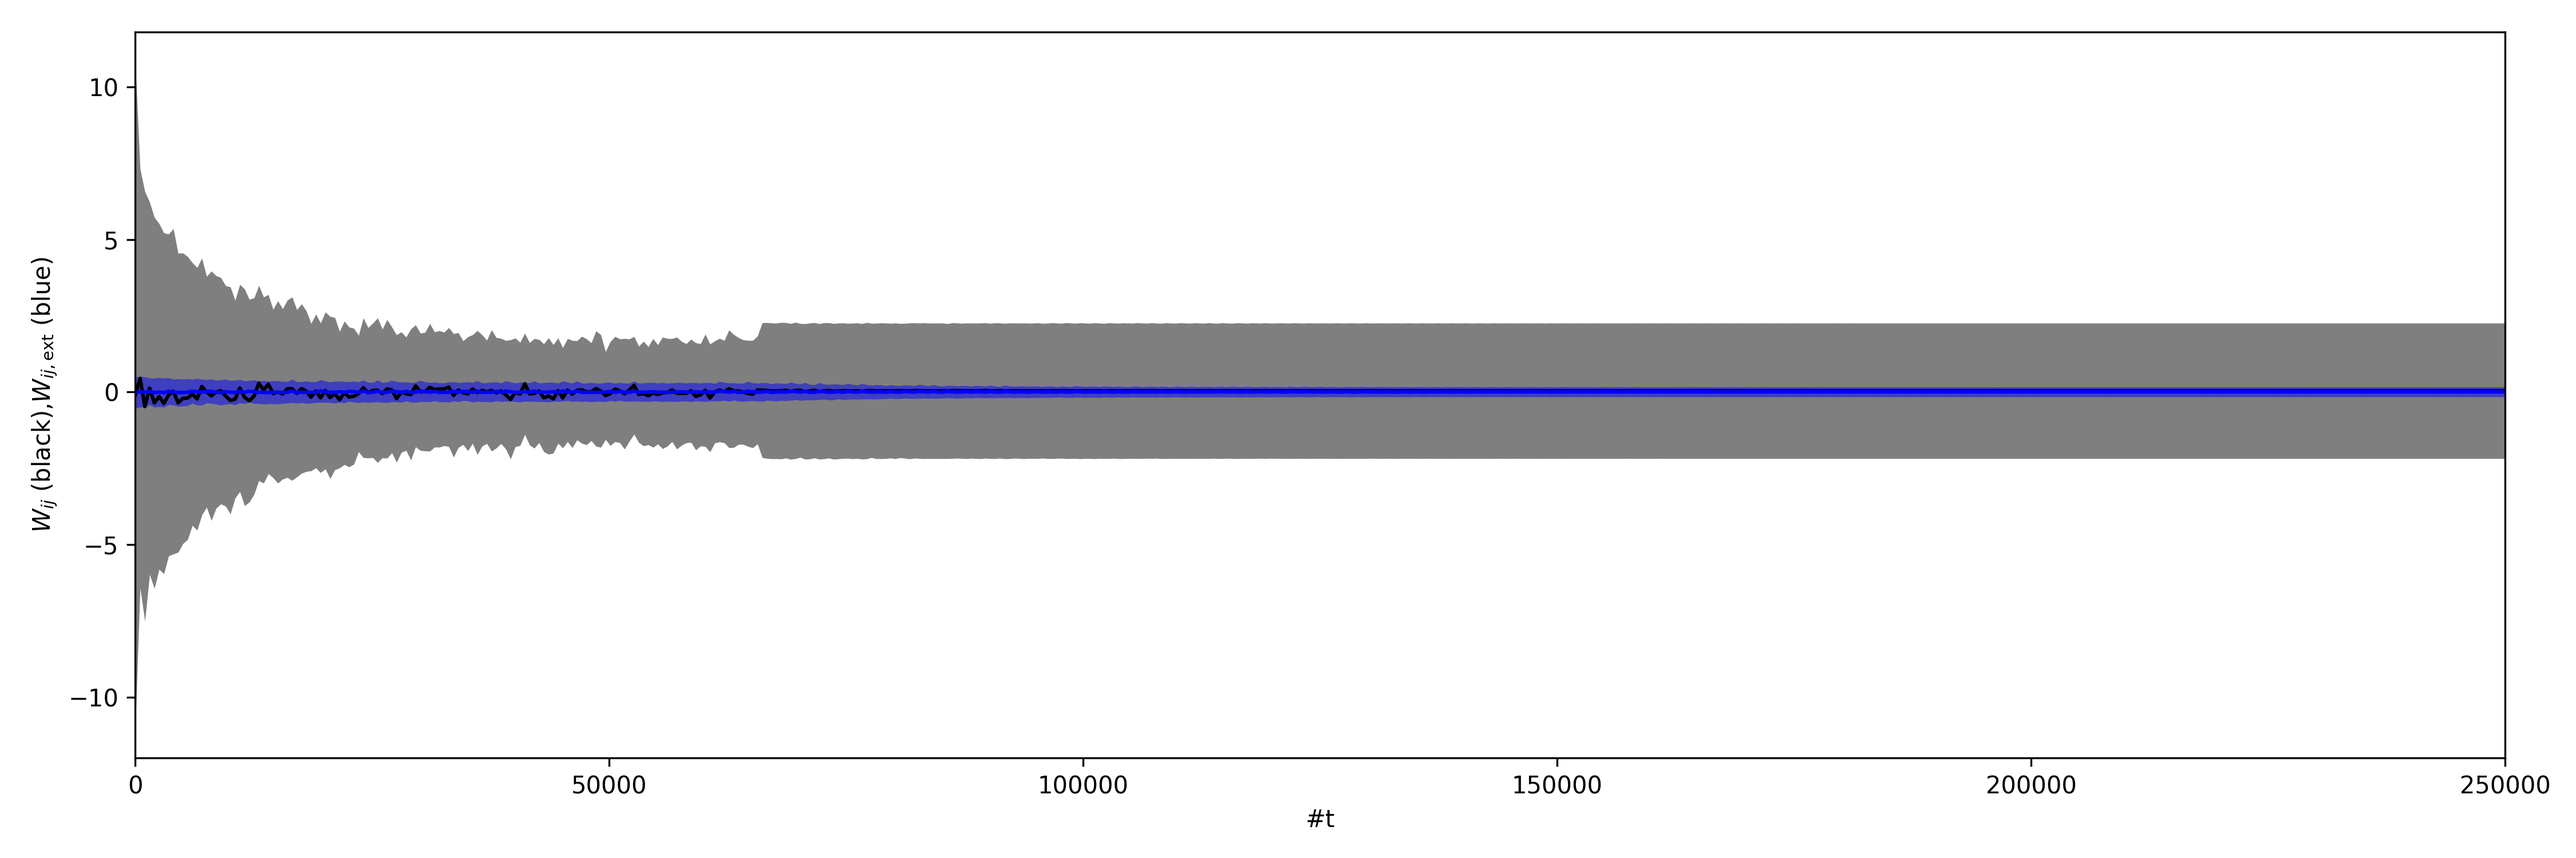
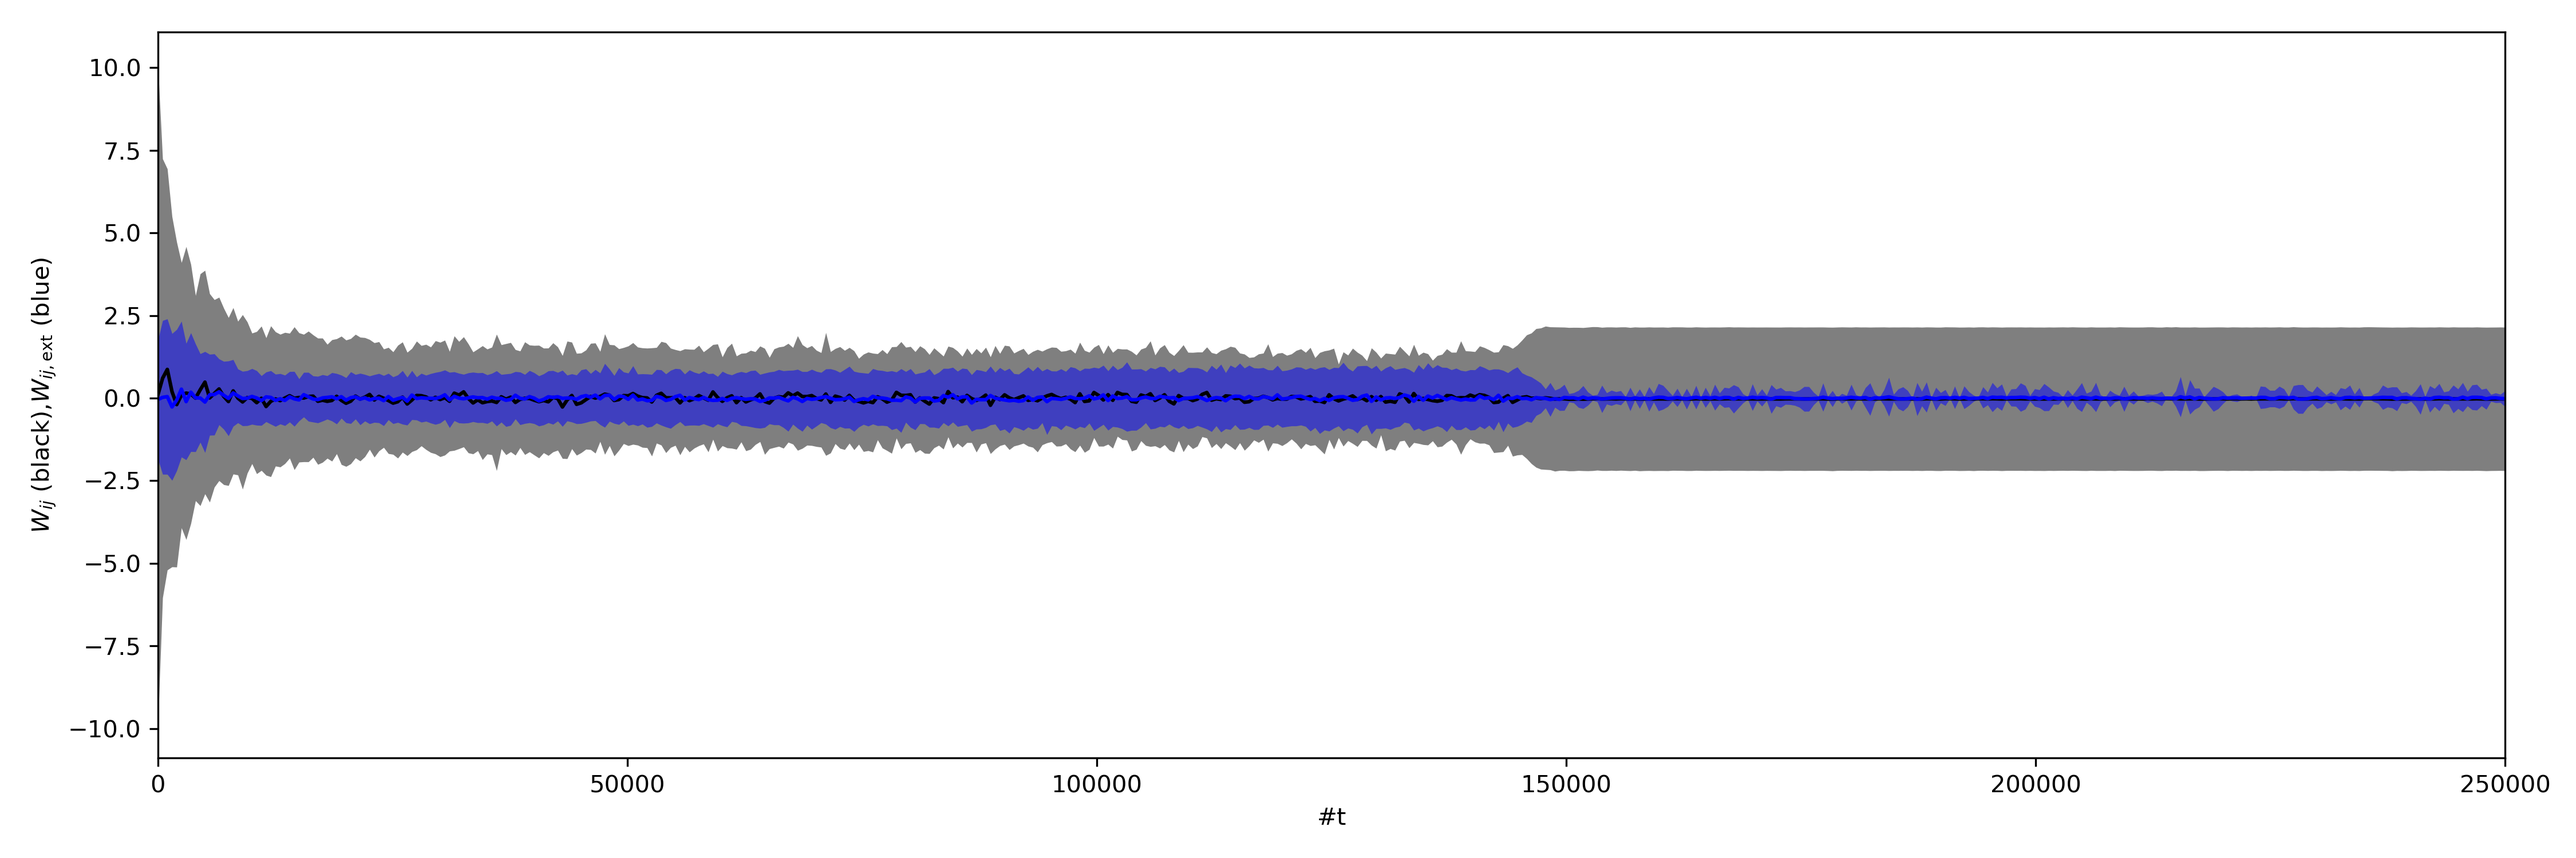
.

diff --git a/code/rnn_prox_dist_non_bin/cpp_code/corr_modulation_test.cpp b/code/rnn_prox_dist_non_bin/cpp_code/corr_modulation_test.cpp
@@ -1,0 +1,169 @@
+#include <iostream>
+#include <cmath>
+#include <fstream>
+#include <random>
+#include <ctime>
+#include "./parameters_corr_modulation.hpp"
+
+using namespace std;
+using namespace parameters;
+
+double sigm(double x){
+	return (tanh(x/2.) + 1.)/2.;
+}
+
+double h(double x, double y, double y_mean, double x_0)
+{
+	double phi=(-x+tanh(2.*0.958*x/x_0)*x_0/0.958);
+	return phi*(y-y_mean);
+}
+
+double mu_mod(double x1, double x2){
+	return (x1 - x2)*(x1 - x2);
+}
+
+int id(int x1, int x2, int n_x2){
+	return x1*n_x2 + x2;
+}
+
+int main(){
+
+	time_t timer;
+
+	mt19937 e(time(&timer));
+
+	normal_distribution<> n_dist(0.,1.);
+
+	double w_p [n_p];
+	double w_d [n_d];
+
+	double y_p [n_p];
+	double y_d [n_d];
+	double y_p_mean [n_p];
+	double y_d_mean [n_d];
+	double y_post;
+	double x_p [n_p];
+	double x_d [n_d];
+
+	for(int i=0; i<n_p; i++){
+		w_p[i] = 0.01;
+	}
+	
+	for(int i=0; i<n_d; i++){
+		w_d[i] = 0.01;
+	}
+
+	double * w_p_rec = new double[n_t*n_p];
+	double * w_d_rec = new double[n_t*n_d];
+
+	double * y_p_rec = new double[n_t*n_p];
+	double * y_d_rec = new double[n_t*n_d];
+
+	double * y_p_mean_rec = new double[n_t*n_p];
+	double * y_d_mean_rec = new double[n_t*n_d];
+
+	double * y_post_rec = new double[n_t];
+
+	double alpha, beta; //used for generating correlated input between distal and first proximal input.
+
+	for(int t = 0; t < n_t; t++){
+
+		for(int k = 0; k < n_d; k++){
+			y_d[k] = n_dist(e)*std_d[k];
+			y_d_rec[id(t,k,n_d)] = y_d[k];
+		}
+
+		alpha = 1./(std_d[0]*(1./corr_p_d - 1.) + 1.);
+		beta = std_p[0]/sqrt(std_d[0]*std_d[0]*alpha*alpha + (1.-alpha)*(1.-alpha));
+
+		//y_p[0] = y_d[0];
+		y_p[0] = beta*( y_d[0]*alpha + (1.-alpha)*n_dist(e) );
+		y_p_rec[id(t,0,n_p)] = y_p[0];
+
+		for(int k = 1; k < n_p; k++){
+			y_p[k] = n_dist(e)*std_p[k];
+			y_p_rec[id(t,k,n_p)] = y_p[k];
+		}
+		
+		for(int k = 0; k < n_p; k++){
+			y_p_mean[k] += mu_mean_act*(y_p[k] - y_p_mean[k]);
+			y_p_mean_rec[id(t,k,n_p)] = y_p_mean[k];
+		}
+
+		for(int k = 0; k < n_d; k++){
+			y_d_mean[k] += mu_mean_act*(y_d[k] - y_d_mean[k]);
+			y_d_mean_rec[id(t,k,n_d)] = y_d_mean[k];
+		}
+
+
+	}
+
+	//Write proximal presynaptic activity
+	ofstream datafile_act_prox;
+	datafile_act_prox.open("data_act_prox.csv");
+
+	datafile_act_prox << "y_p" << endl;
+	for(int t = 0; t < n_t; t++)
+	{
+		
+		for(int k = 0; k < (n_p - 1); k++){
+			datafile_act_prox << y_p_rec[id(t,k,n_p)] << ",";
+
+		}
+
+		if(t < (n_t - 1)){
+			datafile_act_prox << y_p_rec[id(t,n_p-1,n_p)] << "\n";	
+		} else{
+			datafile_act_prox << y_p_rec[id(t,n_p-1,n_p)];
+		}
+		
+		datafile_act_prox << flush;
+	}
+
+	datafile_act_prox.close();
+
+	//Write distal presynaptic activity
+	ofstream datafile_act_dist;
+	datafile_act_dist.open("data_act_dist.csv");
+
+	datafile_act_dist << "y_d" << endl;
+	for(int t = 0; t < n_t; t++)
+	{
+		
+		for(int k = 0; k < (n_d - 1); k++){
+			datafile_act_dist << y_d_rec[id(t,k,n_d)] << ",";
+
+		}
+
+		if(t < (n_t - 1)){
+			datafile_act_dist << y_d_rec[id(t,n_d-1,n_d)] << "\n";	
+		} else{
+			datafile_act_dist << y_d_rec[id(t,n_d-1,n_d)];
+		}
+		
+		datafile_act_dist << flush;
+	}
+
+	datafile_act_dist.close();
+
+
+
+
+	delete [] w_p_rec;
+	delete [] w_d_rec;
+
+	delete [] y_p_rec;
+	delete [] y_d_rec;
+
+	delete [] y_p_mean_rec;
+	delete [] y_d_mean_rec;
+
+	delete [] y_post_rec;
+
+
+	return 0;
+}
+
+
+
+

diff --git a/code/rnn_prox_dist_non_bin/cpp_code/parameters_corr_modulation.hpp b/code/rnn_prox_dist_non_bin/cpp_code/parameters_corr_modulation.hpp
@@ -1,0 +1,21 @@
+namespace parameters
+{	
+	// activation function
+    const double x_fix_p = 0.5;
+	const double x_fix_d = 0.5;
+
+	// input stats
+	const int n_d = 1;
+	const int n_p = 10;
+	
+	double std_d [n_d] = {1.};
+	double std_p [n_p] = {1.,1.,1.,1.,1.,1.,1.,1.,1.,1.};
+		
+	const double corr_p_d = 0.7; // correlation between distal input and first proximal input;
+	
+	// simulation
+
+	const int n_t = 50000;
+	const double mu_learn = 0.001;
+	const double mu_mean_act = 0.01;
+}

diff --git a/code/rnn_prox_dist_non_bin/data_analysis_script.py b/code/rnn_prox_dist_non_bin/data_analysis_script.py
@@ -93,6 +93,8 @@ def plot_lyap_exp():
 	ax_lyap_exp.set_xlabel("#t")
 	ax_lyap_exp.set_ylabel("Max. Lyapunov Exponent")
 	
+	plt.savefig("./plots/" + file + "/lyapunov_exponents.png",dpi=300)
+
 	plt.show()
 
 
@@ -238,6 +240,8 @@ def analyze_fp_stab():
 		l[k] = np.log(np.abs(np.real(np.linalg.eigvals(d_fix*W_ee[k,:,:]))).max())
 
 	plt.plot(t_ax,l,'-o')
+
+	plt.savefig("./plots/" + file + "/fp_stability.png",dpi=300)
 
 	plt.show()
 

diff --git a/code/rnn_prox_dist_non_bin/cpp_code/parameters.hpp b/code/rnn_prox_dist_non_bin/cpp_code/parameters.hpp
@@ -18,8 +18,7 @@ namespace parameters
 
 	// simulation
 
-	const int n_t = 10000;
-	const double mu_learn = 0.01;
+	const int n_t = 50000;
+	const double mu_learn = 0.001;
 	const double mu_mean_act = 0.01;
-
 }
